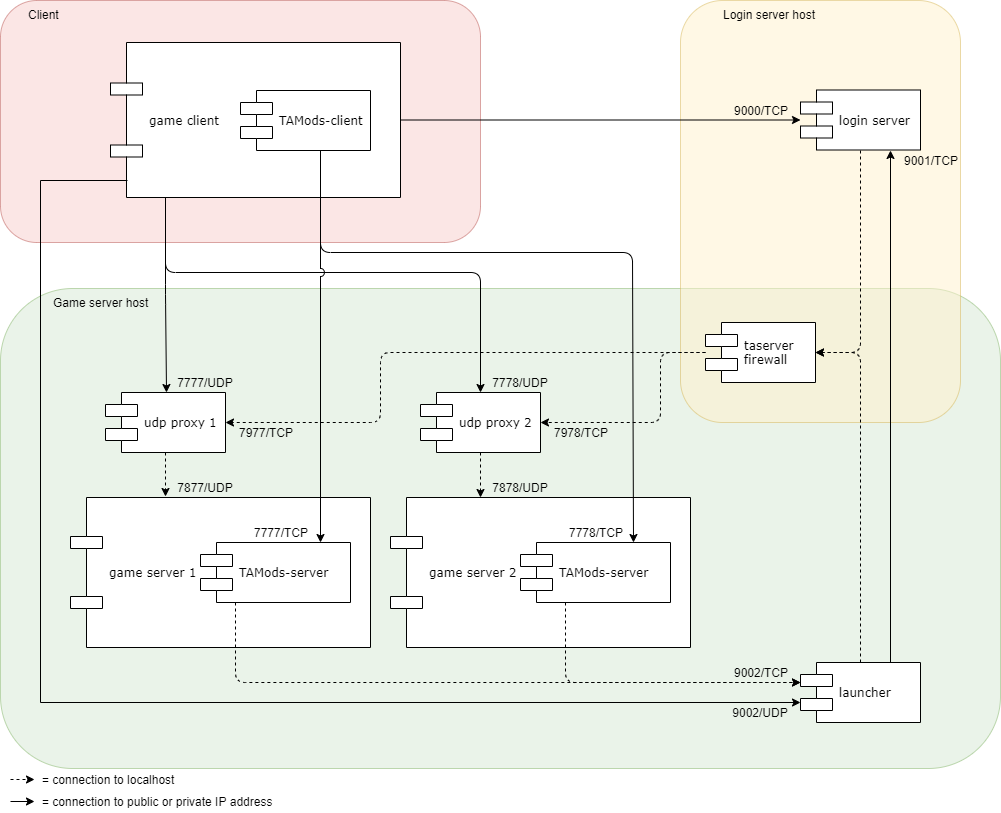
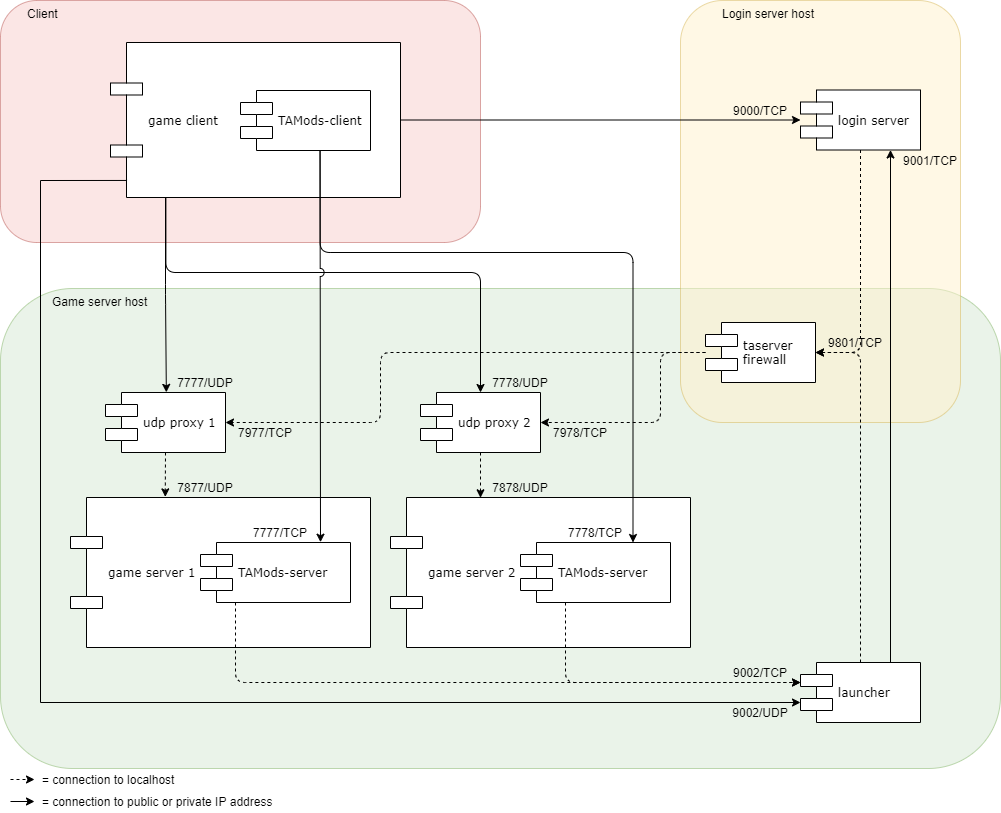
Prepare release notes for v2.5.2

diff --git a/docs/user_manual/release_notes.md b/docs/user_manual/release_notes.md
@@ -1,3 +1,13 @@
+### taserver v2.5.2
+
+Bugs fixed:
+* distinguish between login server ports that should not include the port_offset 
+  and other ports that do, even on the login server
+* also use port_offset for connecting to the firewall and the proxies
+
+Compatibility notes:
+* no incompatible changes
+
 ### taserver v2.5.1
 
 Bugs fixed:
